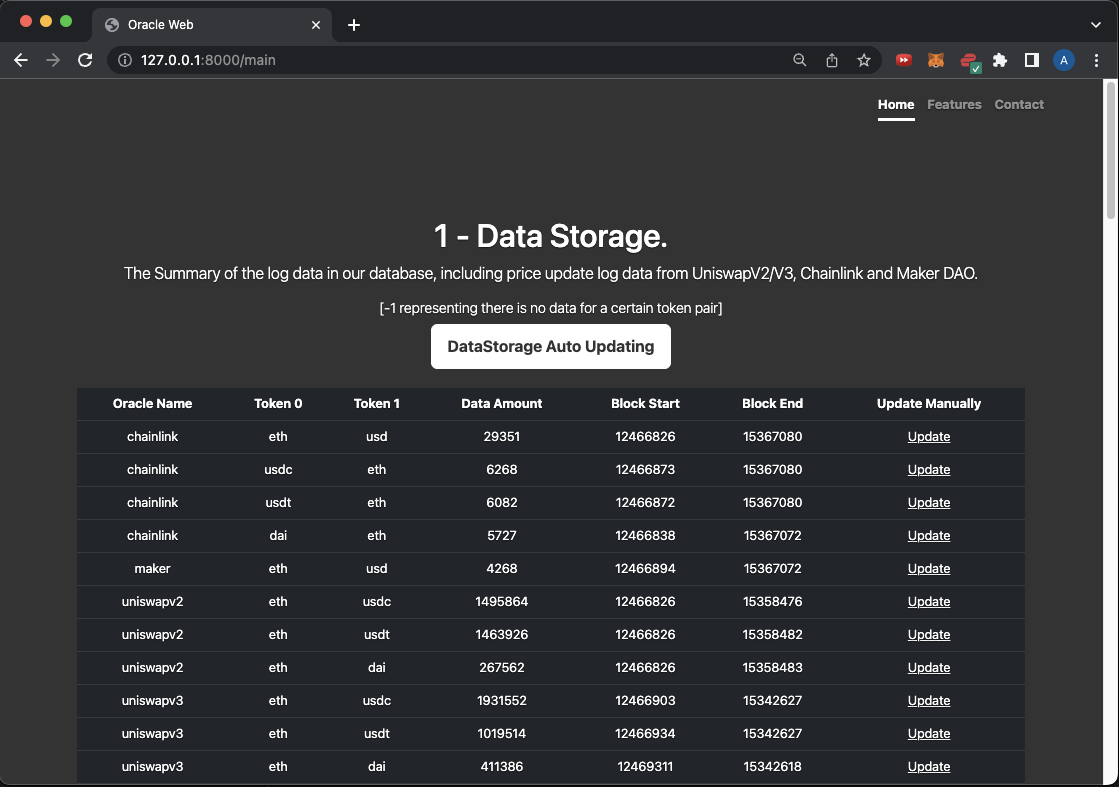
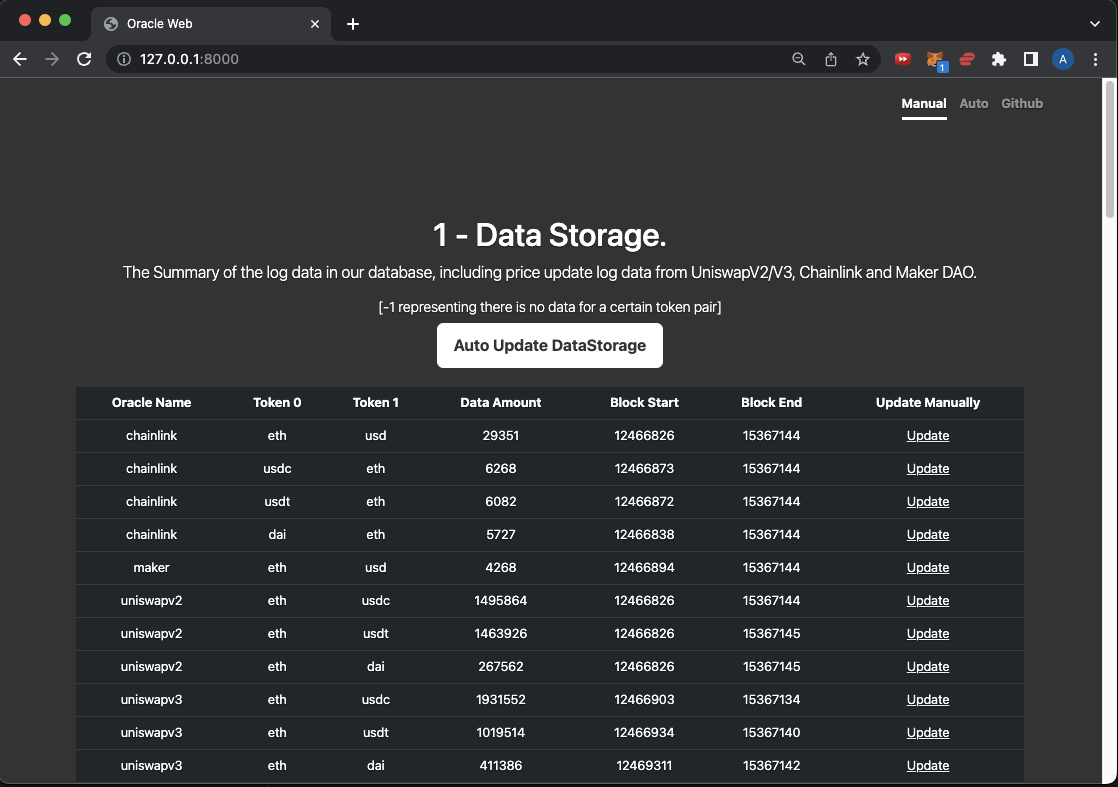
update readme

diff --git a/oracleWeb/oracleWeb/urls.py b/oracleWeb/oracleWeb/urls.py
@@ -21,6 +21,7 @@ from . import views
 
 urlpatterns = [
     path('admin/', admin.site.urls),
+    path('', views.main),
     path('main', views.main),
     path('auto_main', views.auto_main),
     path('auto_update_datastorage', views.auto_update_datastorage),

diff --git a/Readme.md b/Readme.md
@@ -74,4 +74,5 @@ Django version 4.0.6, using settings 'oracleWeb.settings'
 Starting development server at http://127.0.0.1:8000/
 Quit the server with CONTROL-C.
 ```
+Direcly copy the link to the browser and we will get:
 ![Alt text](images/Browser.png?raw=true "Browser")
